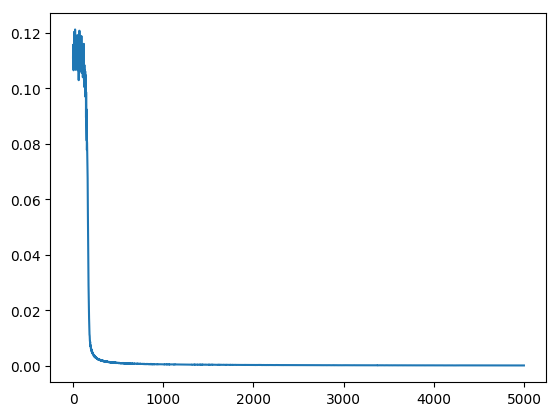
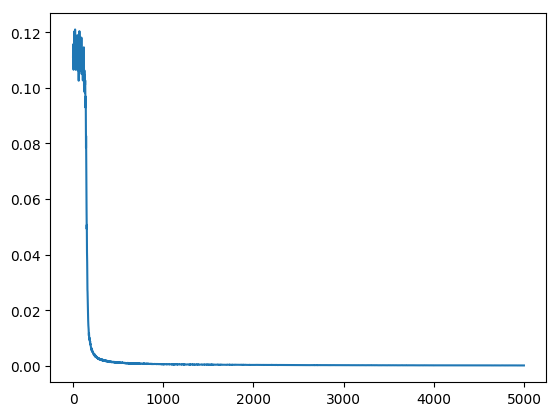
PanNet1-enlarge2 number of training 1

diff --git a/PanNet1_searching_num_train1.py b/PanNet1_searching_num_train1.py
@@ -14,7 +14,7 @@ tf.set_random_seed(123)
 np.random.seed(123)
 
 # Parameters
-num_filter1 = 100
+num_filter1 = 120
 learning_rates = 0.1
 num_training1 = 5000
 
